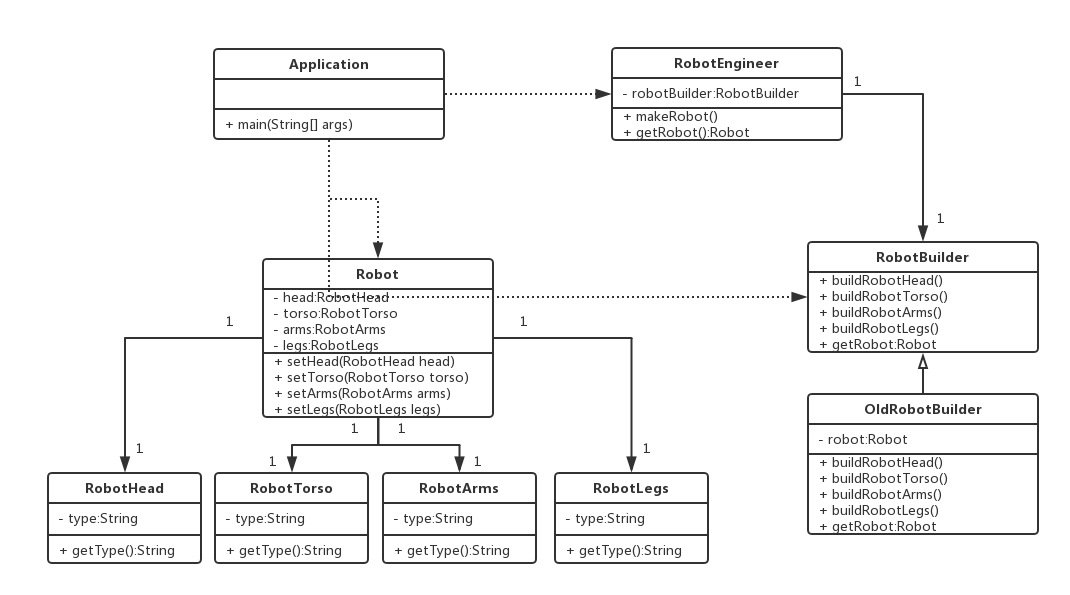
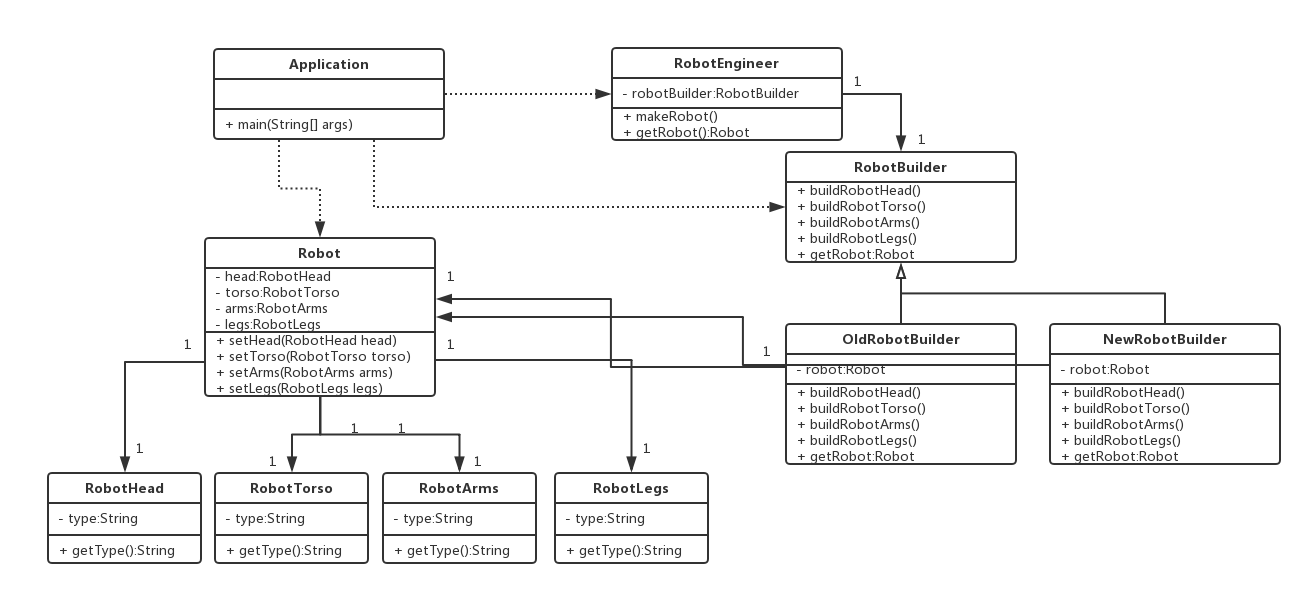
Update Robot example for Builder Pattern

diff --git a/5-Design Patterns/2-Creational Patterns/6-Builder Pattern/Robot Example/builder/NewRobotBuilder.java b/5-Design Patterns/2-Creational Patterns/6-Builder Pattern/Robot Example/builder/NewRobotBuilder.java
@@ -1,0 +1,44 @@
+package builder;
+
+import robot.Robot;
+import robot.RobotArms;
+import robot.RobotHead;
+import robot.RobotLegs;
+import robot.RobotTorso;
+
+/**
+ * Concrete NewRobotBuilder class that works as a concrete factory, a blueprint,
+ * to build an new-school type of robot.
+ *
+ * @author Ziang Lu
+ */
+public class NewRobotBuilder implements RobotBuilder {
+
+    private Robot robot = new Robot();
+
+    @Override
+    public void buildRobotHead() {
+        robot.setHead(new RobotHead("Vibranium Head"));
+    }
+
+    @Override
+    public void buildRobotTorso() {
+        robot.setTorso(new RobotTorso("Vibranium Torso"));
+    }
+
+    @Override
+    public void buildRobotArms() {
+        robot.setArms(new RobotArms("Artificial Flesh Arms"));
+    }
+
+    @Override
+    public void buildRobotLegs() {
+        robot.setLegs(new RobotLegs("Jet-Propelled Legs"));
+    }
+
+    @Override
+    public Robot getRobot() {
+        return robot;
+    }
+
+}

diff --git a/5-Design Patterns/2-Creational Patterns/6-Builder Pattern/Builder Pattern.md b/5-Design Patterns/2-Creational Patterns/6-Builder Pattern/Builder Pattern.md
@@ -7,6 +7,11 @@ Problem: Creating and assembling the parts of a <u>complex</u> object directly w
 It commits
 
 * How can a class (the same contruction process) create different representations of a complex object?
+
+  *即不必在constructor中一次性specify全部的parameter, 而可以somehow (通过builder) 动态地添加field   [1]*
+
+  *又可以认为, 将相同的construction process抽象出来, 但是却somehow可以构造出class的不同的representation, 即不同种的object   [2]*
+
 * How can a class that includes creating a complex object be simplified?
 
 <br>
@@ -15,10 +20,25 @@ It commits
 
 The Builder Pattern is a **creational pattern** that **constructs complex objects made up from a bunch of its component objects, and meanwhile keeps the creation of these part objects to be independent from the main object**.
 
-* Encapsulate creating and assembling <u>the parts of a complex object in a separate `Builder` object</u>
 * When needed, <u>delegate object creation to a `Builder` object instead of creating the objects directly</u>.
 
+* Encapsulate creating and assembling <u>the parts of a complex object in a separate `Builder` object</u>
+
+  `Builder` is responsible for defining the construction process for individual parts. `Builder` has those individual processes to initialize and configure the product.
+
+* `Product` is the final output object which is produced from `Builder` and as directed.
+
+In this way, we successfuly **separate the representation of a class from its construction process**.
+
+*即正如前面[1]所说, 不必在constructor中一次性specify全部的parameter, 而可以通过builder动态地添加field*
+
+*例如, 在下面的例子中仅仅specify `os` to be "Android"以及`ram` to be 2GB, 可以构造出一部phone; 在另一个情况下, 可以仅仅specify `os` to be "iOS"以及`screenSize` to be 5.5 inch 来构造出另一部phone.*
+
 <img src="https://github.com/Ziang-Lu/Software-Development-and-Design/blob/master/5-Design%20Patterns/2-Creational%20Patterns/6-Builder%20Pattern/phone_example.png?raw=true">
+
+*正如前面[2]所说, 可以相同的construction process抽象出来, 但是却可以构造出class的不同的representation, 即不同种的object*
+
+*例如, 在下面的例子中, `OldRobot`和`NewRobot`构造的过程是相同的, 但是通过`OldRobotBuilder`和`NewRobotBuilder`的不同implementation来实现: 在`RobotBuilder`和`RobotEngineer`中有相同的构造过程, 但是最终却构造出不同种的object.*
 
 <img src="https://github.com/Ziang-Lu/Software-Development-and-Design/blob/master/5-Design%20Patterns/2-Creational%20Patterns/6-Builder%20Pattern/robot_example.png?raw=true">
 
